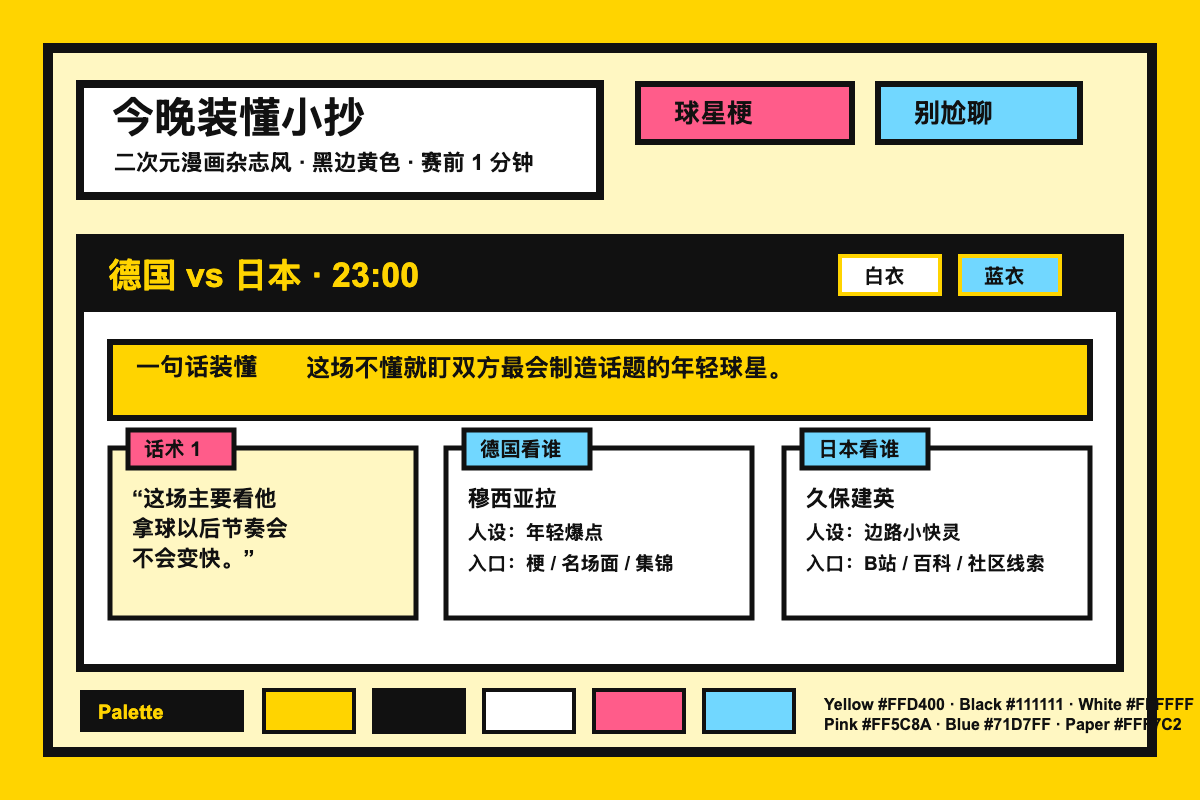
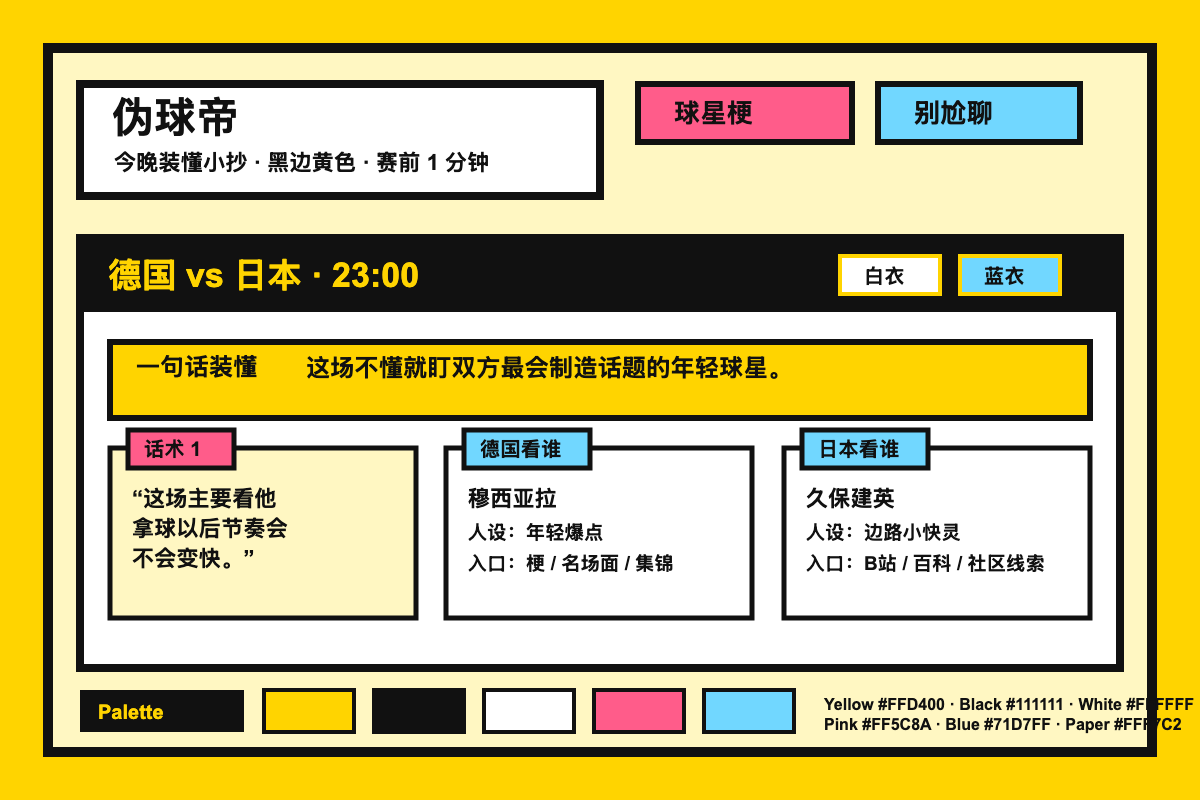
refine: rename site to wei qiudi

Changed region(s): [[0.0925, 0.125, 0.4625, 0.2188]]

diff --git a/src/styles.css b/src/styles.css
@@ -270,12 +270,24 @@ h2 {
 }
 
 .player-card h3 {
-  margin-bottom: 4px;
+  display: inline;
+  margin: 0 8px 4px 0;
   font-size: 1.5rem;
   line-height: 1.1;
 }
 
+.roster-pill {
+  display: inline-flex;
+  border: 3px solid #111111;
+  background: #ff5c8a;
+  padding: 2px 6px;
+  font-size: 0.78rem;
+  font-weight: 950;
+  vertical-align: 3px;
+}
+
 .persona {
+  margin-top: 6px;
   margin-bottom: 12px;
   font-weight: 850;
 }

diff --git a/src/App.tsx b/src/App.tsx
@@ -15,8 +15,8 @@ function App() {
     <main className="page-shell">
       <header className="site-header">
         <div className="title-card">
-          <p className="eyebrow">世界杯伪球迷急救包</p>
-          <h1>今晚装懂小抄</h1>
+          <p className="eyebrow">今晚装懂小抄</p>
+          <h1>伪球帝</h1>
           <p>{dailyGuide.headline}</p>
         </div>
         <div className="today-stamp">
@@ -141,6 +141,9 @@ function PlayerCard({ player }: { player: KeyPlayer }) {
   return (
     <article className="player-card">
       <h3>{player.name}</h3>
+      {player.rosterStatus === "needs-check" ? (
+        <span className="roster-pill">大名单待核验</span>
+      ) : null}
       <p className="persona">人设：{player.persona}</p>
       <div className="hook-list">
         {player.hooks.map((hook) => (

diff --git a/index.html b/index.html
@@ -5,13 +5,12 @@
     <meta name="viewport" content="width=device-width, initial-scale=1.0" />
     <meta
       name="description"
-      content="给中文伪球迷看的世界杯赛前一分钟装懂小抄。"
+      content="伪球帝，给中文伪球迷看的世界杯赛前一分钟装懂小抄。"
     />
-    <title>今晚装懂小抄</title>
+    <title>伪球帝｜今晚装懂小抄</title>
   </head>
   <body>
     <div id="root"></div>
     <script type="module" src="/src/main.tsx"></script>
   </body>
 </html>
-

diff --git a/src/types.ts b/src/types.ts
@@ -15,6 +15,7 @@ export interface PlayerHook {
 export interface KeyPlayer {
   name: string;
   persona: string;
+  rosterStatus?: "confirmed" | "needs-check";
   hooks: PlayerHook[];
 }
 
@@ -54,4 +55,3 @@ export interface DailyGuide {
     matches: PreviewMatch[];
   };
 }
-